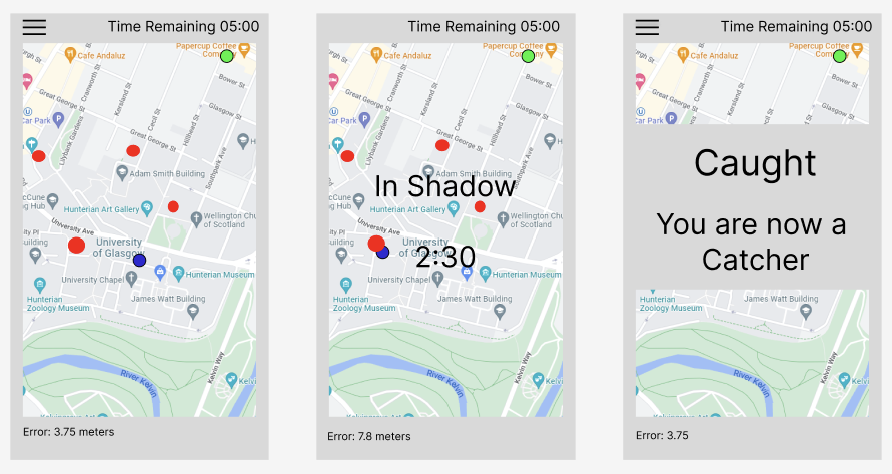
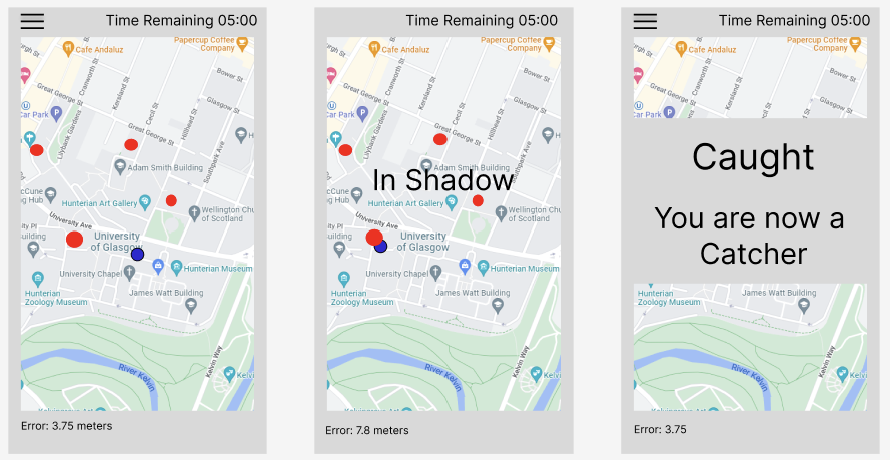
Added a paragraph on the user interface design

diff --git a/dissertation/l4proj.tex b/dissertation/l4proj.tex
@@ -452,11 +452,15 @@ lasted a long time without being caught, then there is a chance that you found a
 \section{User Interface}
 \label{phase1uidesign}
 Once I had designed the main mechanics of the game, I wanted to make a design of the User Interface. To do this I created a wireframe
-on Figma to generate an overall wireframe.
+on Figma to generate an overall wireframe. Figure \ref{fig:phase1uidesign} shows my initial designs for this phase of the game. Since
+this is going to be a location based game, I knew that it would be important to have a map in the centre of the screen. In the first
+wireframe, I show the overall view that a runner player would be able to see. In this case the blue dot shows you the runners location while
+the red dots show the locations of the various shadow areas that I found during my analysis phase. My hope is that this would give the
+users an idea of what areas would be good to hide in.   
 
 \begin{figure}
     \centering
-    \includegraphics[width=0.9\linewidth]{images/phase1UIDesign.png}
+    \includegraphics[width=0.85\linewidth]{images/phase1UIDesign.png}
     \caption{One of the figma wireframes that I created during my UI design. The first wireframe shows the overall view that a runner
     player will see, the second frame being what the runner sees when they are in a GPS shadow and the final frame being the view when
     the player is caught.}
